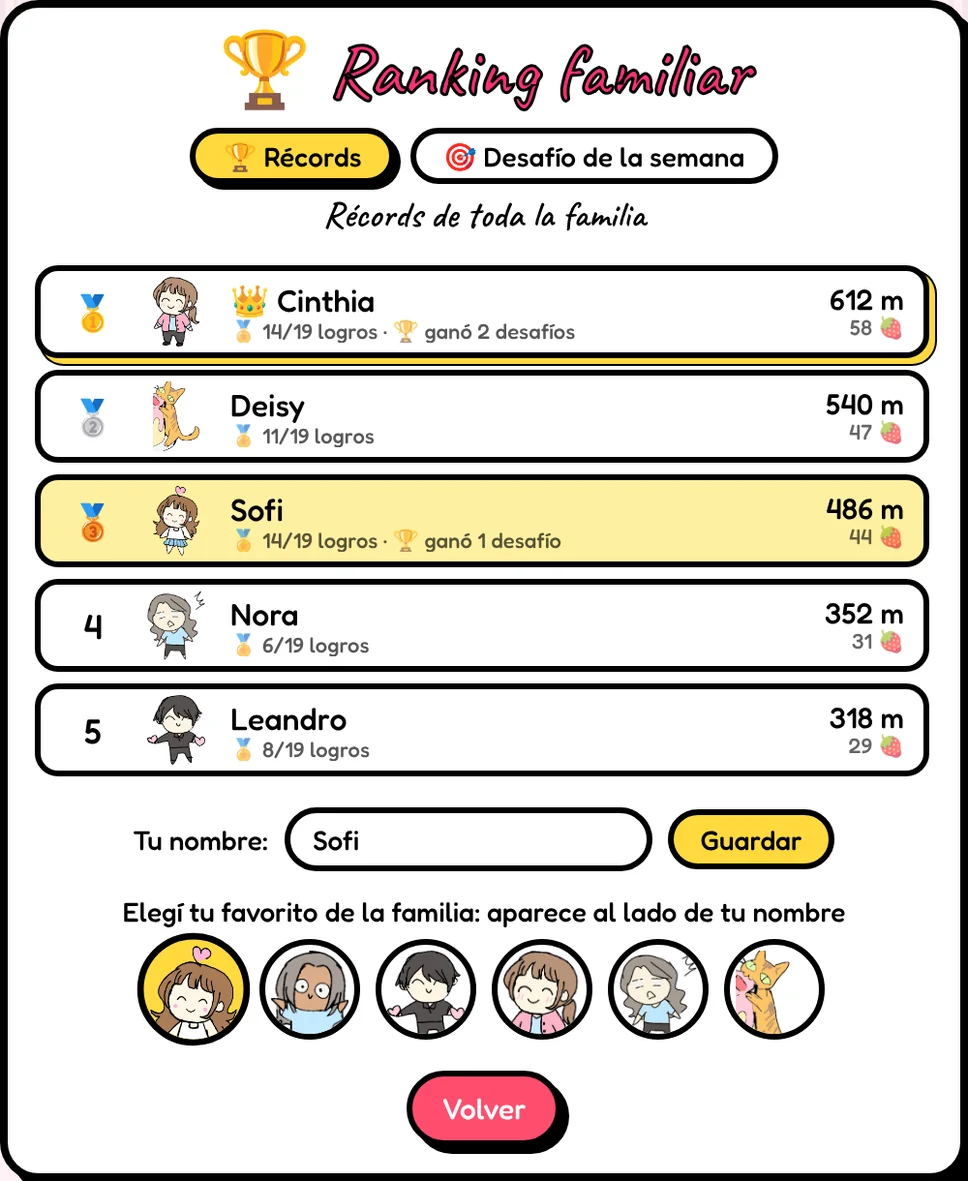
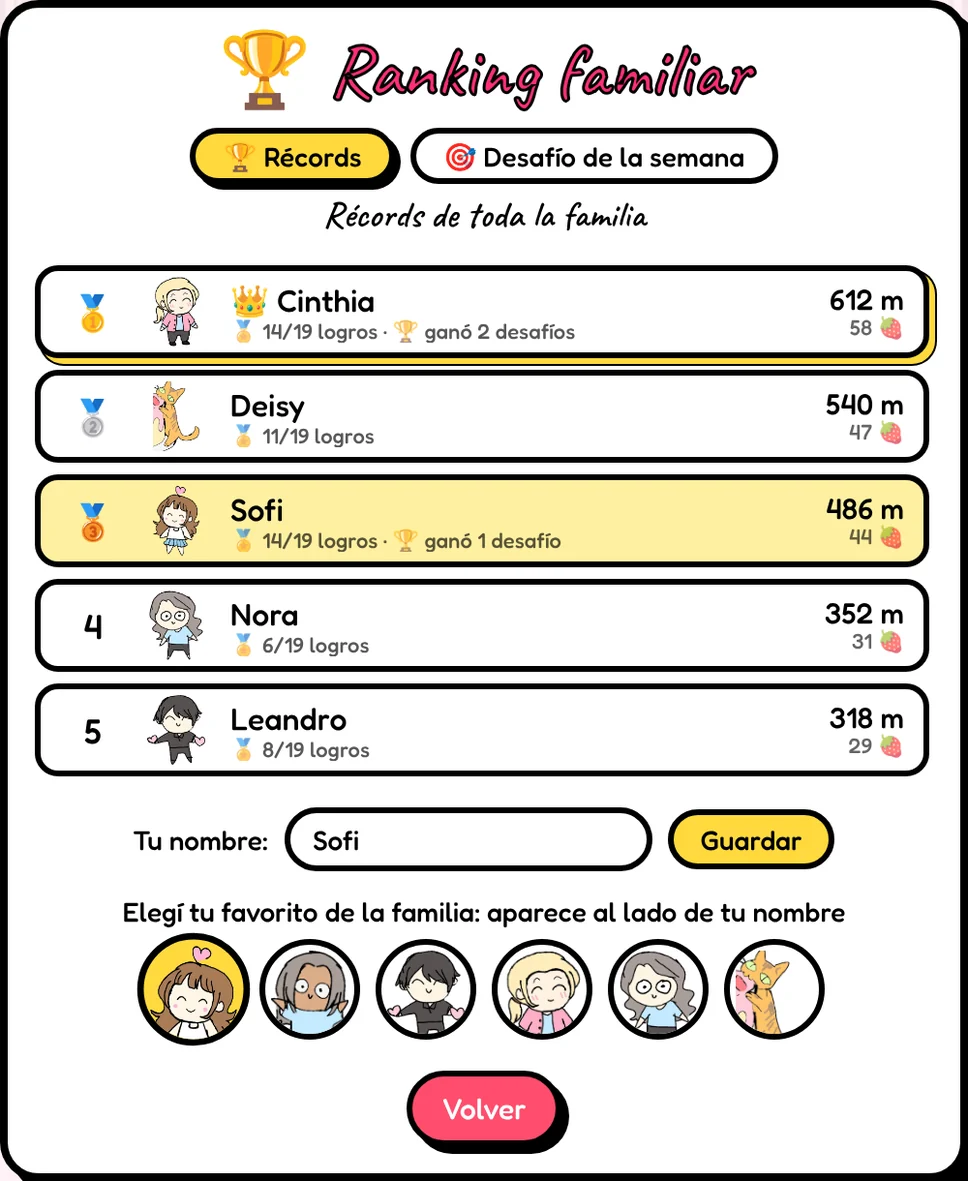
Versión 2.2: ¡llegó Nora! y todos los dibujos son de Sofía 🎨
- Nora jugable: se desbloquea con 170 frutillas (entre Leandro y Cinthia; Cinthia sigue abriendo la fiesta). El día de su cumple todos pueden correr con ella
- Dibujos nuevos de Sofía: Cinthia y Dina corriendo reemplazan a las versiones hechas con IA, y Nora tiene su dibujo propio
- Quien ya tenía 170 frutillas o más ve el cartel "Nora se unió" al abrir el juego
- Logro "Corre toda la familia": ahora con los 5 personajes (quien ya lo tenía no lo pierde)
- Menú con los 5 personajes en una fila, también en el celular parado
- Codigo.gs: nora en PERSONAJES
- README: Nora en la tabla, créditos sin IA y capturas nuevas con los dibujos de Sofía
- Novedades 2.2 y caché torta-runner-v30

Changed region(s): [[0.4959, 0.7925, 0.7128, 0.884], [0.155, 0.2134, 0.2169, 0.3048], [0.155, 0.4877, 0.2169, 0.5487]]

diff --git a/index.html b/index.html
@@ -90,14 +90,16 @@ button:focus-visible{outline:3px solid var(--pink);outline-offset:2px}
 .menuTop .grp{display:flex;gap:8px;flex-wrap:wrap}
 .secTitle{font-family:var(--hand);font-weight:700;font-size:28px;margin:0 auto 8px;display:flex;align-items:center;gap:8px;max-width:716px}
 .secTitle .n{background:var(--white);border-radius:999px;padding:0 12px;line-height:1.2}
-.chars{display:grid;grid-template-columns:repeat(4,minmax(0,170px));justify-content:center;gap:12px;margin-bottom:16px}
+.chars{display:grid;grid-template-columns:repeat(5,minmax(0,140px));justify-content:center;gap:12px;margin-bottom:16px}
 .card{position:relative;background:var(--white);border-radius:18px;padding:8px;text-align:left;border:4px solid var(--ink);box-shadow:5px 5px 0 var(--ink)}
 .card.sel{background:var(--cream);transform:translateY(-2px)}
 .card .pic{aspect-ratio:1;max-width:100%;background:var(--bg);border:3px solid var(--ink);border-radius:12px;display:grid;place-items:center;overflow:hidden;position:relative}
 .card .pic img{width:88%;height:88%;object-fit:contain;filter:drop-shadow(3px 3px 0 rgba(0,0,0,.9))}
 .card.locked .pic img{filter:grayscale(1) contrast(.8)}
 .card .lock{position:absolute;inset:0;background:rgba(0,0,0,.28);display:grid;place-items:center}
-.card .lock span{background:var(--white);border:3px solid var(--ink);border-radius:999px;padding:1px 10px;font-size:13px}
+.card .lock .lf{font-style:normal}
+.card .lock span{background:var(--white);border:3px solid var(--ink);border-radius:999px;padding:1px 8px;font-size:13px;white-space:nowrap}
+body.compact .card .lock span{font-size:11px;padding:0 5px;border-width:2px}
 .card .nm{font-size:16px;margin:6px 2px 0;line-height:1.1}
 .card .ds{font-family:var(--hand);font-size:15px;line-height:1.05;opacity:.75;margin:0 2px}
 .card .chk{position:absolute;top:12px;left:12px;width:26px;height:26px;border-radius:50%;background:var(--ink);color:var(--white);display:grid;place-items:center;font-size:13px}
@@ -292,7 +294,8 @@ body.compact .hero,body.compact .chips{display:none}
 body.compact #stage{border-radius:0;border:0;box-shadow:none}
 body.portrait #rotate{display:block}
 @media (max-width:720px){
-  .chars,.outfits{grid-template-columns:repeat(2,minmax(0,1fr))}
+  .outfits{grid-template-columns:repeat(2,minmax(0,1fr))}
+  .chars{grid-template-columns:repeat(5,minmax(0,1fr))}
   .menuTop .grp{gap:6px}
   #hud .pill{padding:3px 10px}
   .hFruP{width:84px;font-size:17px}
@@ -301,7 +304,8 @@ body.portrait #rotate{display:block}
   #hudBtns .ibtn{width:40px;height:40px}
   .secTitle{font-size:24px}
 }
-body.compact.short .chars,body.compact.short .outfits{grid-template-columns:repeat(4,minmax(0,1fr))}
+body.compact.short .chars{grid-template-columns:repeat(5,minmax(0,1fr))}
+body.compact.short .outfits{grid-template-columns:repeat(4,minmax(0,1fr))}
 body.compact.short .card .ds{display:none}
 
 /* ---------- celular parado ---------- */
@@ -310,13 +314,14 @@ body.compact.short .card .ds{display:none}
   body.compact .menuTop{margin-bottom:8px;gap:6px}
   body.compact .ibtn{width:36px;height:36px;font-size:16px}
   body.compact.portrait #playBtn2{display:none} /* parado: el botón grande ¡A CORRER! ya está a la vista y así entran todos los íconos */
-  body.compact .chars{grid-template-columns:repeat(4,minmax(0,1fr));gap:7px;margin-bottom:10px}
+  body.compact .chars{grid-template-columns:repeat(5,minmax(0,1fr));gap:6px;margin-bottom:10px}
   body.compact .card{padding:4px;border-width:3px;box-shadow:3px 3px 0 var(--ink);border-radius:12px!important}
   body.compact .card .pic{border-width:2px;border-radius:8px}
   body.compact .card .nm{font-size:12px;margin:3px 1px 0;text-align:center}
   body.compact .card .ds{display:none}
   body.compact .card .chk{top:6px;left:6px;width:20px;height:20px;font-size:11px}
-  body.compact .card .lock span{font-size:10px;padding:0 5px;border-width:2px}
+  body.compact .card .lock span{font-size:10px;padding:0 4px;border-width:2px}
+  body.compact .card .lock .lf{display:none} /* celular parado: "🔒 170" entra en la tarjeta */
   body.compact .outfits{grid-template-columns:repeat(4,minmax(0,1fr));gap:7px;margin-bottom:10px}
   body.compact .ofit{flex-direction:column;gap:2px;padding:6px 3px;text-align:center;box-shadow:3px 3px 0 var(--ink)}
   body.compact .ofit .t{font-size:11px}
@@ -802,6 +807,7 @@ const CHARS=[
   {id:'sofi',   name:'Sofi',         need:0,   img:'sofi',    desc:'Corre con estilo'},
   {id:'deisy',  name:'Deisy',        need:50,  img:'deisy',   desc:'Pelo gris y remera celeste'},
   {id:'leandro',name:'Leandro',      need:120, img:'leandro', desc:'Corazones rosas power'},
+  {id:'nora',   name:'Nora',         need:170, img:'nora',    desc:'Ojos grandes, sorpresas grandes'},
   {id:'cinthia',name:'Cinthia',      need:220, img:'cinthia', desc:'¡La cumpleañera! Deja confeti', confetti:true},
 ];
 const OUTFITS=[
@@ -810,7 +816,7 @@ const OUTFITS=[
   {id:'corazon',name:'Corazón',     need:45, em:'💘', desc:'Corazón flotante'},
   {id:'corona', name:'Torta Queen', need:90, em:'👑', desc:'Corona de cumple'},
 ];
-const IMG_FILES=['sofi','sofi_hoodie','deisy','leandro','cinthia','dina','frutilla','torta','nubes','texto','pancito','kampito','kampito_verde','kampito_tropical','dina_corre'];
+const IMG_FILES=['sofi','sofi_hoodie','deisy','leandro','nora','cinthia','dina','frutilla','torta','nubes','texto','pancito','kampito','kampito_verde','kampito_tropical','dina_corre'];
 
 /* comiditas de la fiesta: el pancito con salame vale 5 y cada sabor de Kampito da su poder */
 const PAN_VALUE=5;
@@ -827,7 +833,7 @@ const CUMPLES=[
   {nombre:'Sofi',    char:'sofi',    dia:4,  mes:8},
   {nombre:'Deisy',   char:'deisy',   dia:25, mes:7},
   {nombre:'Leandro', char:'leandro', dia:25, mes:11},
-  {nombre:'Nora',    char:'',        dia:5,  mes:10},
+  {nombre:'Nora',    char:'nora',    dia:5,  mes:10},
 ];
 let fakeToday=null; // solo para pruebas
 const hoy=()=>fakeToday||new Date();
@@ -836,8 +842,13 @@ const bdayChar=id=>hoyCumple().some(c=>c.char===id);
 const cinthiaDay=()=>bdayChar('cinthia');
 
 /* novedades: cada versión que ven los jugadores, la más nueva primero */
-const VERSION='2.1';
+const VERSION='2.2';
 const NEWS=[
+  {v:'2.2',fecha:'octubre 2026',titulo:'¡Llegó Nora!',items:[
+    ['👵','Nora ya es jugable: se desbloquea con 170 frutillas. El día de su cumple, todos pueden correr con ella y lleva corona.'],
+    ['🎨','Dibujos nuevos de Sofía: Nora, Cinthia y Dina corriendo. Ahora todos los personajes son dibujos de Sofía.'],
+    ['👯','El logro "Corre toda la familia" ahora pide jugar con los 5 personajes (si ya lo tenías, lo seguís teniendo).'],
+  ]},
   {v:'2.1',fecha:'octubre 2026',titulo:'Caja fuerte, tutorial y cumpleaños',items:[
     ['☁','Caja fuerte: guardá tu progreso con tu nombre y 4 números secretos, y seguí jugando en otro celular o en la compu. Si te olvidás los números, la abrís respondiendo tus preguntas secretas con alguien de la familia.'],
     ['👆','Carrera de práctica la primera vez que jugás: un dedito te muestra cuándo saltar y cuándo hacer el doble salto, y después vienen el pancito y un Kampito. Cada cosa nueva lleva un cartelito la primera vez que aparece.'],
@@ -885,7 +896,7 @@ const ACH=[
   {id:'tres',    em:'✨',name:'Los tres poderes',     desc:'Tomá los 3 sabores de Kampito'},
   {id:'escudo',  em:'🛡',name:'¡Crash!',              desc:'Rompé una torta con el escudo'},
   {id:'tortas100',em:'🍰',name:'Esquiva tortas',      desc:'Esquivá 100 tortas en total'},
-  {id:'cuatro',  em:'👯',name:'Corre toda la familia',desc:'Jugá con los 4 personajes'},
+  {id:'cuatro',  em:'👯',name:'Corre toda la familia',desc:'Jugá con los 5 personajes'},
   {id:'familia', em:'🔓',name:'Familia completa',     desc:'Desbloqueá a Cinthia'},
   {id:'fiesta',  em:'🎂',name:'¡A soplar!',           desc:'Soplá la vela en la fiesta'},
   {id:'casi',    em:'😅',name:'¡Casi!',               desc:'Escapate de Dina: que se canse después de un tropezón'},
@@ -1508,7 +1519,7 @@ function achCheck(live,silent){
     primera:S.runs>=1, fru100:tot>=100, fru500:tot>=500, run50:runFru>=50,
     m300:runM>=300, m1000:runM>=1000, pan5:runPans>=5, pan20:pans>=20,
     kamp10:S.kamps+(l?R.kamps:0)>=10, tres:powers.size>=3, escudo:S.escudos+(l?R.escudos:0)>=1,
-    tortas100:S.tortas+(l?R.tortas:0)>=100, cuatro:chars.size>=4,
+    tortas100:S.tortas+(l?R.tortas:0)>=100, cuatro:CHARS.every(c=>chars.has(c.id)),
     familia:tot>=CHARS[CHARS.length-1].need, fiesta:!!S.fiesta,
     casi:S.escapes+(l?R.escapes:0)>=1, fuera:S.scared+(l?R.scared:0)>=1,
     escurridiza:Math.max(S.bestEscapes,l?R.escapes:0)>=3,
@@ -1611,7 +1622,7 @@ function renderMenu(){
     b.className='card btn'+(sel?' sel':'')+(un?'':' locked');
     b.style.borderRadius='18px';
     b.setAttribute('aria-pressed',sel);
-    b.innerHTML=`<div class="pic"><img src="assets/${c.img}.webp" alt="${c.name}">${un?'':`<div class="lock"><span>🔒 ${c.need} 🍓</span></div>`}</div>
+    b.innerHTML=`<div class="pic"><img src="assets/${c.img}.webp" alt="${c.name}">${un?'':`<div class="lock"><span>🔒 ${c.need}<i class="lf"> 🍓</i></span></div>`}</div>
       <div class="nm">${c.name}${bdayChar(c.id)?' 🎂':''}</div><div class="ds">${bdayChar(c.id)?'¡Hoy es su cumple!':c.desc}</div>${sel?'<div class="chk">✓</div>':''}`;
     b.onclick=()=>{
       if(!un){toast(`${c.name} necesita ${c.need} 🍓 — tenés ${save.total}`);return}
@@ -2553,6 +2564,9 @@ if(save.seenVersion!==VERSION&&location.hash!=='#fiesta'&&location.hash!=='#prue
 {const pre=achCheck(false,true); // logros que ya se habían ganado antes de esta versión
  if(pre) setTimeout(()=>toast(`¡Ya tenías ${pre} ${pre===1?'logro':'logros'}! Miralos en 🏅`),600);}
 rollWeek();
+// personajes nuevos que ya alcanzás con tus frutillas (como Nora en la 2.2): se presentan una vez
+{const nuevos=CHARS.filter(c=>c.need>0&&save.total>=c.need&&!save.seen.includes(c.id));
+ if(nuevos.length){nuevos.forEach(c=>save.seen.push(c.id));persist();unlockQueue.push(...nuevos.map(c=>({k:'char',...c})));setTimeout(nextUnlock,location.hash==='#prueba'?300:1200)}}
 renderMenu();layout();cloudUI();
 if(RANKING_URL&&!(save.prevWin&&save.prevWin.key===prevWeek().key)) setTimeout(()=>fetchTop().then(()=>{if(state==='menu')renderMenu()}),2000);
 if(save.cloud&&save.cloud.key) setTimeout(cloudSync,1200);

diff --git a/sw.js b/sw.js
@@ -1,4 +1,4 @@
-const C='torta-runner-v29';
+const C='torta-runner-v30';
 const FILES=["./", "index.html", "config.js", "manifest.json", "icon-192.png", "icon-512.png", "favicon-32.png", "assets/cinthia.webp", "assets/deisy.webp", "assets/dina.webp", "assets/dina_avatar.webp", "assets/dina_corre.webp", "assets/fiesta.mp4", "assets/fiesta.webm", "assets/fiesta_poster.webp", "assets/frutilla.webp", "assets/leandro.webp", "assets/nora.webp", "assets/kampito.webp", "assets/kampito_tropical.webp", "assets/kampito_verde.webp", "assets/nubes.webp", "assets/pancito.webp", "assets/sofi.webp", "assets/sofi_hoodie.webp", "assets/texto.webp", "assets/torta.webp", "assets/vela.mp4", "assets/vela.webm", "assets/vela_poster.webp"];
 // cache:'reload' baja cada archivo de nuevo (sin copias viejas del navegador) al instalar una versión nueva
 self.addEventListener('install',e=>{e.waitUntil(caches.open(C).then(c=>c.addAll(FILES.map(f=>new Request(f,{cache:'reload'})))));self.skipWaiting()});

diff --git a/README.md b/README.md
@@ -2,7 +2,7 @@
 
 Un *infinite runner* de cumpleaños hecho en familia para Cinthia, con dibujos y animación de Sofía.
 
-Corrés con Sofi, Deisy, Leandro o Cinthia, juntás frutillas y esquivás porciones de torta. Si chocás… Dina se come la torta.
+Corrés con Sofi, Deisy, Leandro, Nora o Cinthia, juntás frutillas y esquivás porciones de torta. Si chocás… Dina se come la torta.
 
 **▶ Jugar:** https://LeandroACasco.github.io/torta-runner/
 
@@ -49,11 +49,12 @@ Todos los lunes sale un desafío nuevo (más pancitos en una partida, llegar lo 
 | Sofi | Desde el inicio |
 | Deisy | 50 |
 | Leandro | 120 |
+| Nora | 170 |
 | Cinthia, la cumpleañera | 220 (deja un rastro de confeti) |
 
 También hay outfits para ponerle a tu personaje: Hoodie Rosa, Corazón flotante y Corona Torta Queen.
 
-![Menú de personajes y outfits](docs/menu.webp)
+![Menú con los 5 personajes y los outfits](docs/menu.webp)
 
 ## La fiesta
 
@@ -98,8 +99,7 @@ Cada vez que sale una versión nueva, el juego muestra sus novedades al abrirlo.
 
 | Qué | Quién |
 | --- | --- |
-| Dibujos, personajes y animación (también el pancito y los Kampitos) | **Sofía** 🎨 |
-| Dina corriendo | Hecha con IA a partir del dibujo de Sofía |
+| Dibujos, personajes y animación (todos los personajes, Dina, el pancito y los Kampitos) | **Sofía** 🎨 |
 | Idea y producción | Leandro |
 | Programación | Leandro, con asistencia de IA (Meta AI en los prototipos, Claude en la versión actual) |
 | Música | Partida: melodía original. Fiesta: *Happy Birthday to You* (dominio público) |

diff --git a/CHANGELOG.md b/CHANGELOG.md
@@ -1,5 +1,11 @@
 # Novedades de Torta Runner
 
+## Versión 2.2 — octubre 2026: ¡Llegó Nora!
+
+- 👵 **Nora ya es jugable:** se desbloquea con 170 frutillas. El día de su cumple, todos pueden correr con ella y lleva corona.
+- 🎨 **Dibujos nuevos de Sofía:** Nora, Cinthia y Dina corriendo. Ahora todos los personajes son dibujos de Sofía.
+- 👯 El logro "Corre toda la familia" ahora pide jugar con los 5 personajes (si ya lo tenías, lo seguís teniendo).
+
 ## Versión 2.1 — octubre 2026: Caja fuerte, tutorial y cumpleaños
 
 - ☁ **Caja fuerte:** guardá tu progreso con tu nombre y 4 números secretos, y seguí jugando en otro celular o en la compu. Si te olvidás los números, la abrís respondiendo tus preguntas secretas con alguien de la familia.
